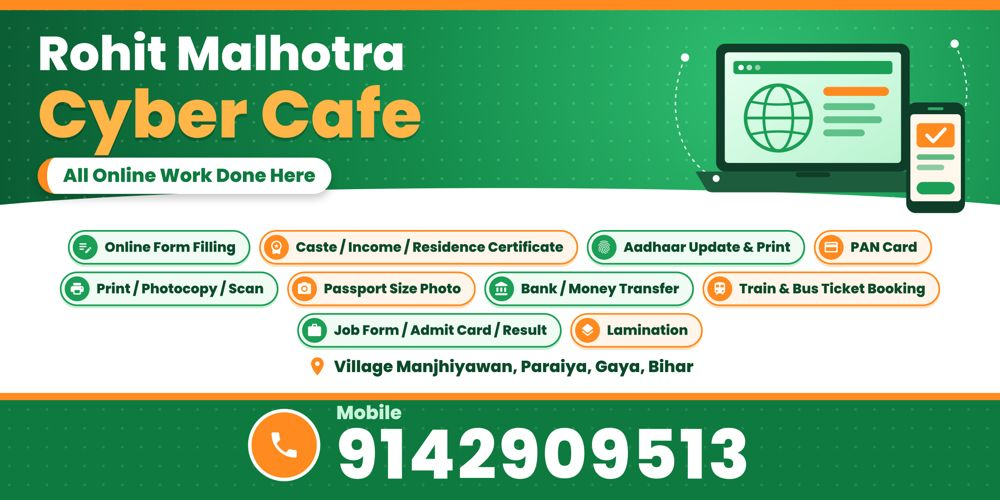
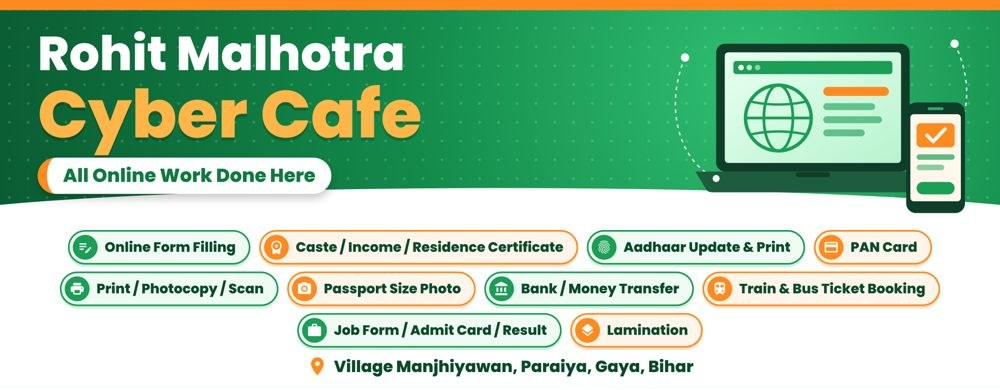
Remove phone/WhatsApp number (Rohit's request)

diff --git a/index.html b/index.html
@@ -30,7 +30,7 @@
     <nav aria-label="Sections" class="links">
       <a href="#about">About</a><a href="#cafe">Cyber Cafe</a><a href="#youtube">YouTube</a><a href="#contact">Contact</a>
     </nav>
-    <a class="btn btn-y btn-sm nav-cta" href="https://wa.me/919142909513?text=Hello%20Rudra%2C%20I%20saw%20your%20profile" target="_blank" rel="noopener"><svg viewBox="0 0 24 24" aria-hidden="true"><path fill="currentColor" d="M12 2a10 10 0 0 0-8.6 15.1L2 22l5-1.3A10 10 0 1 0 12 2zm0 18.2a8.2 8.2 0 0 1-4.2-1.2l-.3-.2-3 .8.8-2.9-.2-.3A8.2 8.2 0 1 1 12 20.2zm4.5-6.1c-.2-.1-1.5-.7-1.7-.8s-.4-.1-.6.1-.7.8-.8 1-.3.2-.5.1a6.7 6.7 0 0 1-3.3-2.9c-.3-.4.3-.4.7-1.4.1-.2 0-.3 0-.4l-.8-1.8c-.2-.5-.4-.4-.6-.4h-.5a1 1 0 0 0-.7.3 3 3 0 0 0-.9 2.2 5.2 5.2 0 0 0 1.1 2.7 11.9 11.9 0 0 0 4.6 4c1.7.7 2.3.8 3.2.6a2.7 2.7 0 0 0 1.8-1.2 2.2 2.2 0 0 0 .1-1.3c0-.1-.2-.2-.4-.3z"/></svg><span>WhatsApp</span></a>
+    <a class="btn btn-y btn-sm nav-cta" href="mailto:rk8122170@gmail.com"><svg viewBox="0 0 24 24" aria-hidden="true" fill="none" stroke="currentColor" stroke-width="1.8" stroke-linecap="round" stroke-linejoin="round"><rect x="3" y="5" width="18" height="14" rx="2"/><path d="M3 7l9 6 9-6"/></svg><span>Email</span></a>
   </div>
 </header>
 
@@ -47,8 +47,7 @@
       <p class="tagline reveal" style="--d:140ms">B.A. Graduate · Computer Operator · Cyber Cafe Owner · YouTuber</p>
       <p class="intro reveal" style="--d:200ms">Digital services, government forms and online work — all in one place.</p>
       <div class="cta reveal" style="--d:260ms">
-        <a class="btn btn-y" href="https://wa.me/919142909513?text=Hello%20Rudra%2C%20I%20saw%20your%20profile" target="_blank" rel="noopener"><svg viewBox="0 0 24 24" aria-hidden="true"><path fill="currentColor" d="M12 2a10 10 0 0 0-8.6 15.1L2 22l5-1.3A10 10 0 1 0 12 2zm0 18.2a8.2 8.2 0 0 1-4.2-1.2l-.3-.2-3 .8.8-2.9-.2-.3A8.2 8.2 0 1 1 12 20.2zm4.5-6.1c-.2-.1-1.5-.7-1.7-.8s-.4-.1-.6.1-.7.8-.8 1-.3.2-.5.1a6.7 6.7 0 0 1-3.3-2.9c-.3-.4.3-.4.7-1.4.1-.2 0-.3 0-.4l-.8-1.8c-.2-.5-.4-.4-.6-.4h-.5a1 1 0 0 0-.7.3 3 3 0 0 0-.9 2.2 5.2 5.2 0 0 0 1.1 2.7 11.9 11.9 0 0 0 4.6 4c1.7.7 2.3.8 3.2.6a2.7 2.7 0 0 0 1.8-1.2 2.2 2.2 0 0 0 .1-1.3c0-.1-.2-.2-.4-.3z"/></svg>WhatsApp</a>
-        <a class="btn btn-glass" href="mailto:rk8122170@gmail.com"><svg viewBox="0 0 24 24" aria-hidden="true" fill="none" stroke="currentColor" stroke-width="1.8" stroke-linecap="round" stroke-linejoin="round"><rect x="3" y="5" width="18" height="14" rx="2"/><path d="M3 7l9 6 9-6"/></svg>Email</a>
+        <a class="btn btn-y" href="mailto:rk8122170@gmail.com"><svg viewBox="0 0 24 24" aria-hidden="true" fill="none" stroke="currentColor" stroke-width="1.8" stroke-linecap="round" stroke-linejoin="round"><rect x="3" y="5" width="18" height="14" rx="2"/><path d="M3 7l9 6 9-6"/></svg>Email</a>
       </div>
       <div class="socials reveal" style="--d:320ms" aria-label="Social links">
         <a href="https://www.instagram.com/mr._.rohitmalhotra/" target="_blank" rel="noopener" aria-label="Instagram"><svg viewBox="0 0 24 24" aria-hidden="true" fill="none" stroke="currentColor" stroke-width="1.8"><rect x="3" y="3" width="18" height="18" rx="5"/><circle cx="12" cy="12" r="4"/><circle cx="17.5" cy="6.5" r="1" fill="currentColor" stroke="none"/></svg></a>
@@ -116,8 +115,7 @@
     <div class="cafe-bar glass reveal">
       <p class="addr"><svg viewBox="0 0 24 24" aria-hidden="true" fill="none" stroke="currentColor" stroke-width="1.8" stroke-linecap="round" stroke-linejoin="round"><path d="M12 21s-7-6.2-7-11a7 7 0 0 1 14 0c0 4.8-7 11-7 11z"/><circle cx="12" cy="10" r="2.5"/></svg><span>Village Manjhiyawan, Paraiya, Gaya, Bihar</span></p>
       <div class="cta">
-        <a class="btn btn-y" href="tel:+919142909513"><svg viewBox="0 0 24 24" aria-hidden="true" fill="none" stroke="currentColor" stroke-width="1.8" stroke-linecap="round" stroke-linejoin="round"><path d="M5 3h4l2 5-2.5 1.5a11 11 0 0 0 6 6L16 13l5 2v4a2 2 0 0 1-2 2A16 16 0 0 1 3 5a2 2 0 0 1 2-2z"/></svg>Call 9142909513</a>
-        <a class="btn btn-glass" href="https://wa.me/919142909513?text=Hello%2C%20cyber%20cafe%20ka%20kaam%20hai" target="_blank" rel="noopener"><svg viewBox="0 0 24 24" aria-hidden="true"><path fill="currentColor" d="M12 2a10 10 0 0 0-8.6 15.1L2 22l5-1.3A10 10 0 1 0 12 2zm0 18.2a8.2 8.2 0 0 1-4.2-1.2l-.3-.2-3 .8.8-2.9-.2-.3A8.2 8.2 0 1 1 12 20.2zm4.5-6.1c-.2-.1-1.5-.7-1.7-.8s-.4-.1-.6.1-.7.8-.8 1-.3.2-.5.1a6.7 6.7 0 0 1-3.3-2.9c-.3-.4.3-.4.7-1.4.1-.2 0-.3 0-.4l-.8-1.8c-.2-.5-.4-.4-.6-.4h-.5a1 1 0 0 0-.7.3 3 3 0 0 0-.9 2.2 5.2 5.2 0 0 0 1.1 2.7 11.9 11.9 0 0 0 4.6 4c1.7.7 2.3.8 3.2.6a2.7 2.7 0 0 0 1.8-1.2 2.2 2.2 0 0 0 .1-1.3c0-.1-.2-.2-.4-.3z"/></svg>WhatsApp</a>
+        <a class="btn btn-y" href="mailto:rk8122170@gmail.com"><svg viewBox="0 0 24 24" aria-hidden="true" fill="none" stroke="currentColor" stroke-width="1.8" stroke-linecap="round" stroke-linejoin="round"><rect x="3" y="5" width="18" height="14" rx="2"/><path d="M3 7l9 6 9-6"/></svg>Email</a>
       </div>
     </div>
   </div>
@@ -147,8 +145,6 @@
     <p class="eyebrow reveal">Contact</p>
     <h2 class="reveal">Let's work <span class="y">together</span></h2>
     <div class="contact-grid">
-      <a class="glass contact reveal" href="tel:+919142909513"><span class="ico"><svg viewBox="0 0 24 24" aria-hidden="true" fill="none" stroke="currentColor" stroke-width="1.8" stroke-linecap="round" stroke-linejoin="round"><path d="M5 3h4l2 5-2.5 1.5a11 11 0 0 0 6 6L16 13l5 2v4a2 2 0 0 1-2 2A16 16 0 0 1 3 5a2 2 0 0 1 2-2z"/></svg></span><span><b>Phone</b><small>+91 9142909513</small></span></a>
-      <a class="glass contact reveal" href="https://wa.me/919142909513" target="_blank" rel="noopener"><span class="ico"><svg viewBox="0 0 24 24" aria-hidden="true"><path fill="currentColor" d="M12 2a10 10 0 0 0-8.6 15.1L2 22l5-1.3A10 10 0 1 0 12 2zm0 18.2a8.2 8.2 0 0 1-4.2-1.2l-.3-.2-3 .8.8-2.9-.2-.3A8.2 8.2 0 1 1 12 20.2zm4.5-6.1c-.2-.1-1.5-.7-1.7-.8s-.4-.1-.6.1-.7.8-.8 1-.3.2-.5.1a6.7 6.7 0 0 1-3.3-2.9c-.3-.4.3-.4.7-1.4.1-.2 0-.3 0-.4l-.8-1.8c-.2-.5-.4-.4-.6-.4h-.5a1 1 0 0 0-.7.3 3 3 0 0 0-.9 2.2 5.2 5.2 0 0 0 1.1 2.7 11.9 11.9 0 0 0 4.6 4c1.7.7 2.3.8 3.2.6a2.7 2.7 0 0 0 1.8-1.2 2.2 2.2 0 0 0 .1-1.3c0-.1-.2-.2-.4-.3z"/></svg></span><span><b>WhatsApp</b><small>Chat now</small></span></a>
       <a class="glass contact reveal" href="mailto:rk8122170@gmail.com"><span class="ico"><svg viewBox="0 0 24 24" aria-hidden="true" fill="none" stroke="currentColor" stroke-width="1.8" stroke-linecap="round" stroke-linejoin="round"><rect x="3" y="5" width="18" height="14" rx="2"/><path d="M3 7l9 6 9-6"/></svg></span><span><b>Email</b><small>rk8122170@gmail.com</small></span></a>
       <a class="glass contact reveal" href="https://www.instagram.com/mr._.rohitmalhotra/" target="_blank" rel="noopener"><span class="ico"><svg viewBox="0 0 24 24" aria-hidden="true" fill="none" stroke="currentColor" stroke-width="1.8"><rect x="3" y="3" width="18" height="18" rx="5"/><circle cx="12" cy="12" r="4"/><circle cx="17.5" cy="6.5" r="1" fill="currentColor" stroke="none"/></svg></span><span><b>Instagram</b><small>@mr._.rohitmalhotra</small></span></a>
       <a class="glass contact reveal" href="https://www.facebook.com/share/1C2KRwQqYV/" target="_blank" rel="noopener"><span class="ico"><svg viewBox="0 0 24 24" aria-hidden="true"><path fill="currentColor" d="M13.5 22v-8h2.7l.4-3.2h-3.1V8.8c0-.9.3-1.6 1.6-1.6h1.7V4.4c-.3 0-1.3-.1-2.5-.1-2.5 0-4.1 1.5-4.1 4.2v2.3H7.4V14h2.8v8z"/></svg></span><span><b>Facebook</b><small>Rudra Kumar</small></span></a>
@@ -176,8 +172,8 @@
 </footer>
 
 <nav class="dock" aria-label="Quick contact">
-  <a href="tel:+919142909513"><svg viewBox="0 0 24 24" aria-hidden="true" fill="none" stroke="currentColor" stroke-width="1.8" stroke-linecap="round" stroke-linejoin="round"><path d="M5 3h4l2 5-2.5 1.5a11 11 0 0 0 6 6L16 13l5 2v4a2 2 0 0 1-2 2A16 16 0 0 1 3 5a2 2 0 0 1 2-2z"/></svg><span>Call</span></a>
-  <a class="wa" href="https://wa.me/919142909513?text=Hello%20Rudra%2C%20I%20saw%20your%20profile" target="_blank" rel="noopener"><svg viewBox="0 0 24 24" aria-hidden="true"><path fill="currentColor" d="M12 2a10 10 0 0 0-8.6 15.1L2 22l5-1.3A10 10 0 1 0 12 2zm0 18.2a8.2 8.2 0 0 1-4.2-1.2l-.3-.2-3 .8.8-2.9-.2-.3A8.2 8.2 0 1 1 12 20.2zm4.5-6.1c-.2-.1-1.5-.7-1.7-.8s-.4-.1-.6.1-.7.8-.8 1-.3.2-.5.1a6.7 6.7 0 0 1-3.3-2.9c-.3-.4.3-.4.7-1.4.1-.2 0-.3 0-.4l-.8-1.8c-.2-.5-.4-.4-.6-.4h-.5a1 1 0 0 0-.7.3 3 3 0 0 0-.9 2.2 5.2 5.2 0 0 0 1.1 2.7 11.9 11.9 0 0 0 4.6 4c1.7.7 2.3.8 3.2.6a2.7 2.7 0 0 0 1.8-1.2 2.2 2.2 0 0 0 .1-1.3c0-.1-.2-.2-.4-.3z"/></svg><span>WhatsApp</span></a>
+  <a href="https://www.instagram.com/mr._.rohitmalhotra/" target="_blank" rel="noopener"><svg viewBox="0 0 24 24" aria-hidden="true" fill="none" stroke="currentColor" stroke-width="1.8"><rect x="3" y="3" width="18" height="18" rx="5"/><circle cx="12" cy="12" r="4"/><circle cx="17.5" cy="6.5" r="1" fill="currentColor" stroke="none"/></svg><span>Instagram</span></a>
+  <a class="wa" href="mailto:rk8122170@gmail.com"><svg viewBox="0 0 24 24" aria-hidden="true" fill="none" stroke="currentColor" stroke-width="1.8" stroke-linecap="round" stroke-linejoin="round"><rect x="3" y="5" width="18" height="14" rx="2"/><path d="M3 7l9 6 9-6"/></svg><span>Email</span></a>
   <a href="https://www.youtube.com/@travelwithrk-2" target="_blank" rel="noopener"><svg viewBox="0 0 24 24" aria-hidden="true"><path fill="currentColor" d="M23 7.2a3 3 0 0 0-2.1-2.1C19 4.6 12 4.6 12 4.6s-7 0-8.9.5A3 3 0 0 0 1 7.2 31 31 0 0 0 .5 12a31 31 0 0 0 .5 4.8 3 3 0 0 0 2.1 2.1c1.9.5 8.9.5 8.9.5s7 0 8.9-.5a3 3 0 0 0 2.1-2.1 31 31 0 0 0 .5-4.8 31 31 0 0 0-.5-4.8zM9.75 15V9l5.75 3z"/></svg><span>YouTube</span></a>
 </nav>
 <script src="script.js" defer></script>
